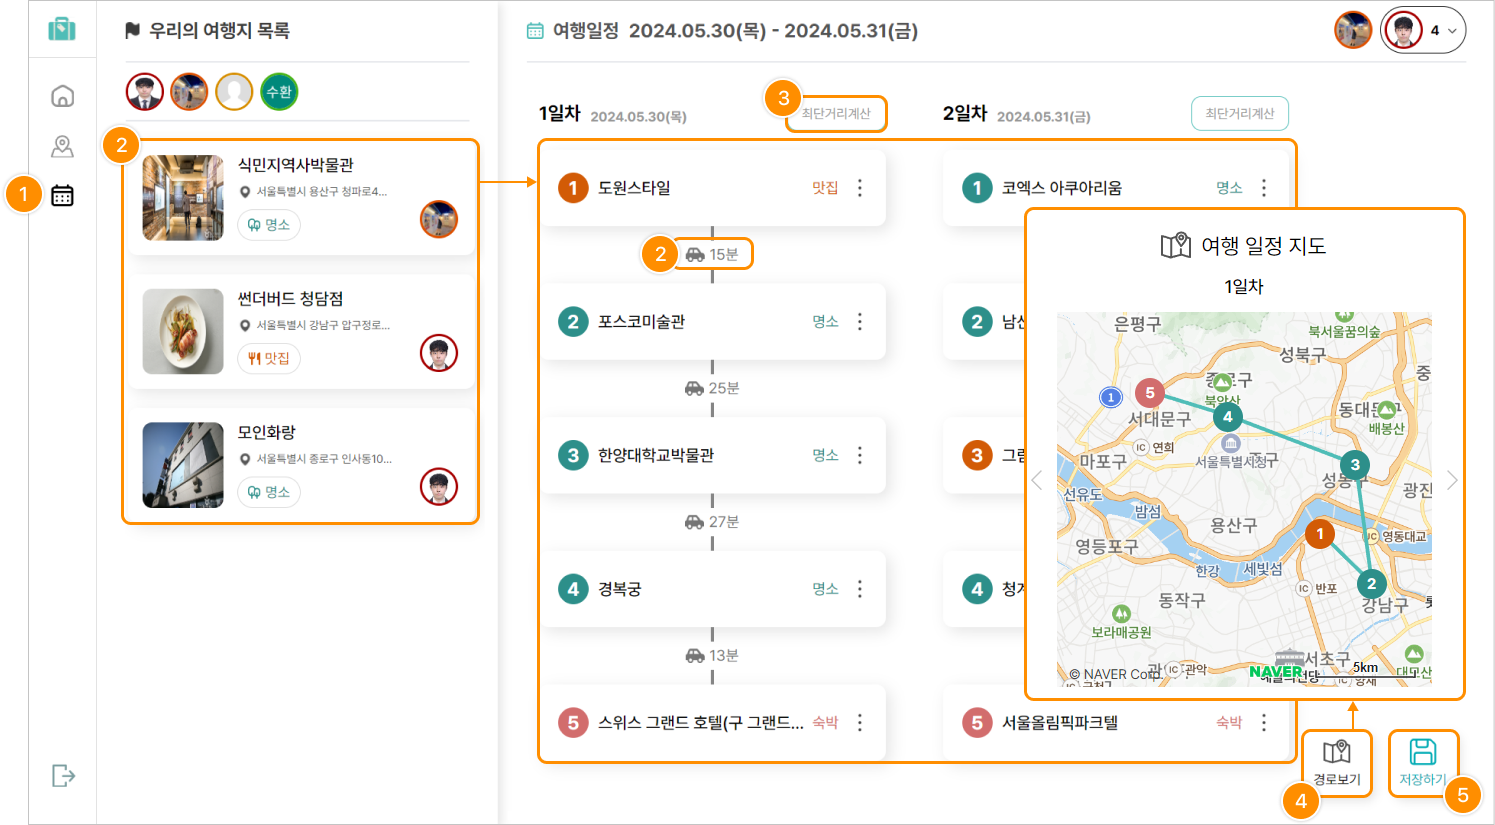
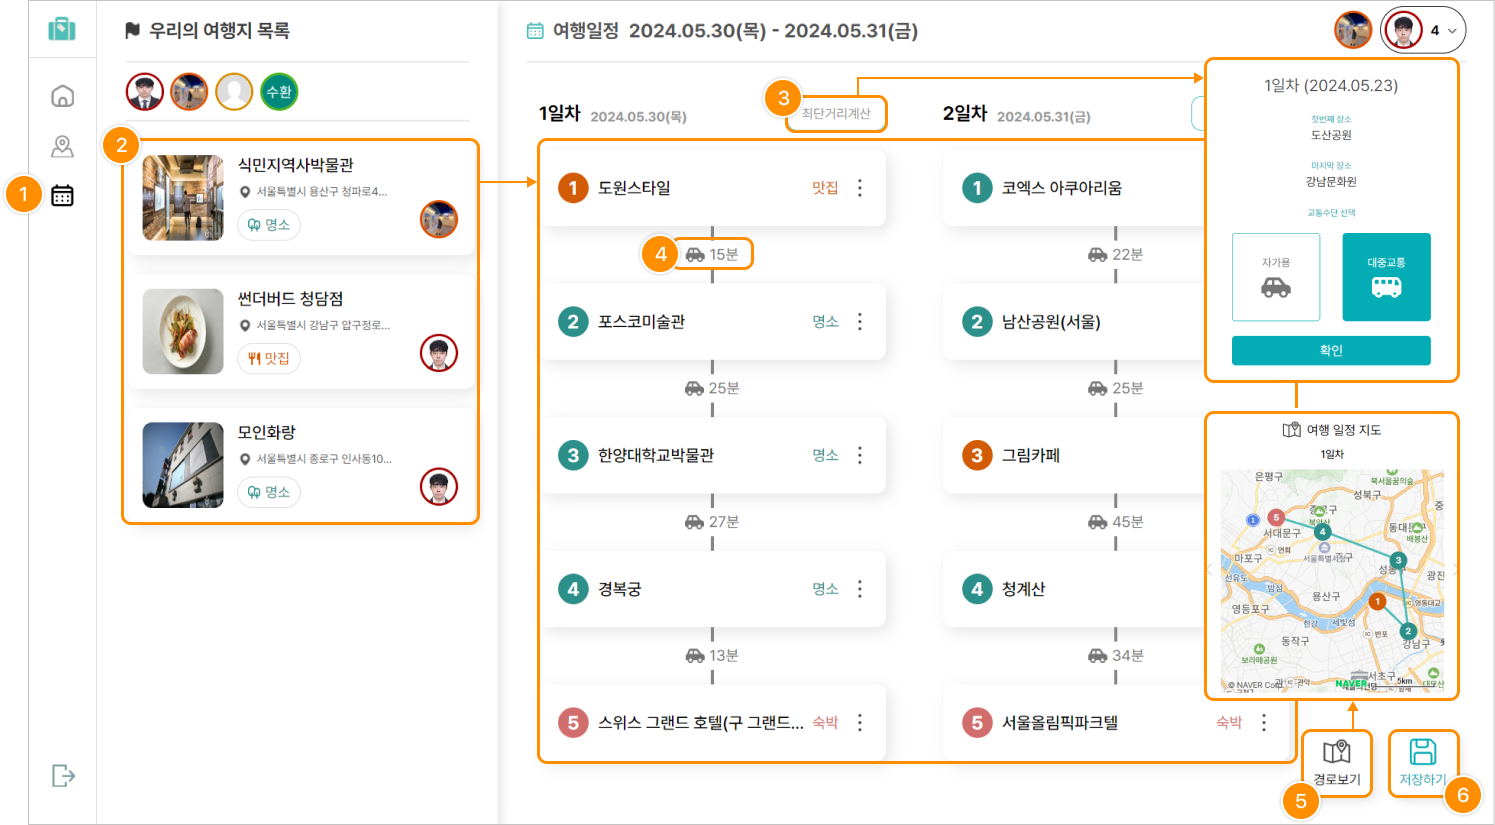
[FE] feat : diary qr코드 생성

Changed region(s): [[0.6769, 0.0606, 0.9846, 0.8485]]

diff --git a/FE/tripeer/components/nav/PlanDetailGuide.jsx b/FE/tripeer/components/nav/PlanDetailGuide.jsx
@@ -71,61 +71,63 @@ const PlanDetailGuide = () => {
         <div className={styles.guideTextBox}>
           <div className={styles.numBtn}>2</div>
           <div className={styles.guideText}>
-            카테고리 : 원하는 카테고리를 눌러 여행지를 확인하세요.
+            카테고리 : 원하는 카테고리를 눌러 여행지를 확인할 수 있습니다.
           </div>
         </div>
         <div className={styles.guideTextBox}>
           <div className={styles.numBtn}>3</div>
           <div className={styles.guideText}>
-            여행지 검색 : 여행하고 싶은 장소를 검색해 보세요.
+            여행지 검색 : 여행하고 싶은 장소를 검색할 수 있습니다..
           </div>
         </div>
         <div className={styles.guideTextBox}>
           <div className={styles.numBtn}>4</div>
           <div className={styles.guideText}>
-            여행지 추가 : 버튼을 눌러 우리의 여행지 목록에 추가해 보세요.
+            여행지 추가 : 버튼을 눌러 우리의 여행지 목록에 추가할 수 있습니다.
           </div>
         </div>
         <div className={styles.guideTextBox}>
           <div className={styles.numBtn}>5</div>
           <div className={styles.guideText}>
-            즐겨찾기 추가 : 버튼을 눌러 즐겨찾기 항목에 추가해 보세요.
+            즐겨찾기 추가 : 버튼을 눌러 즐겨찾기 항목에 추가할 수 있습니다.
           </div>
         </div>
         <div className={styles.guideTextBox}>
           <div className={styles.numBtn}>6</div>
           <div className={styles.guideText}>
-            사이드 창 : 버튼을 눌러 사이드 창을 열고 닫아 보세요.
+            사이드 창 : 버튼을 눌러 사이드 창을 열고 닫기가 가능합니다.
           </div>
         </div>
         <div className={styles.guideTextBox}>
           <div className={styles.numBtn}>7</div>
           <div className={styles.guideText}>
-            사용자 필터 : 사용자 프로필을 클릭하여 검색 결과를 필터링해보세요.
+            사용자 필터 : 사용자 프로필을 클릭하여 검색 결과를 필터링할 수
+            있습니다.
           </div>
         </div>
         <div className={styles.guideTextBox}>
           <div className={styles.numBtn}>8</div>
           <div className={styles.guideText}>
-            여행지 삭제 : 버튼을 눌러 우리의 여행지 목록에서 삭제해 보세요.
+            여행지 삭제 : 버튼을 눌러 우리의 여행지 목록에서 삭제할 수 있습니다.
           </div>
         </div>
         <div className={styles.guideTextBox}>
           <div className={styles.numBtn}>9</div>
           <div className={styles.guideText}>
-            여행지 마커 : 마커를 눌러 여행지 목록에 추가한 여행지를 살펴보세요.
+            여행지 마커 : 마커를 눌러 여행지 목록에 추가한 여행지를 확인할 수
+            있습니다.
           </div>
         </div>
         <div className={styles.guideTextBox}>
           <div className={styles.numBtn}>10</div>
           <div className={styles.guideText}>
-            온라인 유저 창 : 현재 온라인 사용자를 확인해 보세요.
+            온라인 유저 창 : 현재 온라인 사용자를 확인할 수 있습니다.
           </div>
         </div>
         <div className={styles.guideTextBox}>
           <div className={styles.numBtn}>11</div>
           <div className={styles.guideText}>
-            신규 장소 등록 : 검색결과에 없는 여행지를 새로 등록해 보세요.
+            신규 장소 등록 : 검색결과에 없는 여행지를 새로 등록할 수 있습니다.
           </div>
         </div>
       </div>
@@ -142,24 +144,31 @@ const PlanDetailGuide = () => {
           <div className={styles.numBtn}>2</div>
           <div className={styles.guideText}>
             여행지 목록 : 여행지 추가로 넣었던 목록들을 오른쪽 일정에 드롭 앤
-            다운으로 이동해 보세요.
+            다운으로 이동할 수 있습니다.
           </div>
         </div>
         <div className={styles.guideTextBox}>
           <div className={styles.numBtn}>3</div>
           <div className={styles.guideText}>
-            최단거리계산 : 버튼을 눌러 해당 일자의 일정을 최단 거리로 계산된
-            순서로 추천 받아 보세요.
+            최단 거리 계산 : 해당 일자의 첫번째와 마지막 장소를 기준으로,
+            교통수단에 맞게 최단 거리를 계산하여 일정 순서를 변경합니다.
           </div>
         </div>
         <div className={styles.guideTextBox}>
           <div className={styles.numBtn}>4</div>
           <div className={styles.guideText}>
-            경로보기 : 각 일차 별 여행할 장소들의 순서 지도를 보여줍니다.
+            교통 수단 변경 : 버튼을 눌러 자가용 또는 버스로 교통 수단을 변경할
+            수 있습니다.
           </div>
         </div>
         <div className={styles.guideTextBox}>
           <div className={styles.numBtn}>5</div>
+          <div className={styles.guideText}>
+            경로보기 : 각 일차 별 여행할 장소들의 순서 지도를 보여줍니다.
+          </div>
+        </div>
+        <div className={styles.guideTextBox}>
+          <div className={styles.numBtn}>6</div>
           <div className={styles.guideText}>
             저장하기 : 버튼을 눌러 여행을 저장하고, 여행 중 QR코드로 일정을
             확인할 수 있습니다.

diff --git a/FE/tripeer/app/diary/detail/[id]/page.module.css b/FE/tripeer/app/diary/detail/[id]/page.module.css
@@ -6,13 +6,47 @@
   align-items: center;
   padding: 50px 100px 70px;
 }
-.backBox {
+.topSection {
+  display: flex;
   width: 100%;
   height: 60px;
+  flex-direction: row;
+  justify-content: space-between;
+  align-items: center;
+  border-bottom: #4fbdb7 solid 2px;
+  margin-bottom: 20px;
+}
+.qrBox {
+  display: flex;
+  justify-content: center;
+  align-items: center;
+  font-size: 1.1rem;
+  font-weight: 500;
+  color: #545454;
+  margin-left: 10px;
+  cursor: pointer;
+  background: #4fbdb7;
+  color: #fff;
+  border-radius: 5px;
+  height: 40px;
+  width: 100px;
+}
+
+.qrImg {
+  background: url(../../../../components/diary/assets/qrCode.png);
+  background-position: center;
+  background-repeat: no-repeat;
+  background-size: contain;
+  height: 20px;
+  width: 20px;
+  margin-right: 5px;
+}
+.backBox {
+  width: auto;
+  height: 40px;
   display: flex;
   flex-direction: row;
   align-items: center;
-  margin-bottom: 30px;
 }
 .backIcon {
   background: url("../../../../components/diary/assets/backIcon.png");
@@ -35,7 +69,7 @@
   flex-direction: row;
   width: 100%;
   height: 400px;
-  margin-bottom: 100px;
+  margin-bottom: 50px;
 }
 .imageBox {
   height: 100%;
@@ -45,7 +79,7 @@
   background-position: center;
   background-size: cover;
   background-repeat: no-repeat;
-  border-radius: 10px;
+  border-radius: 5px;
   box-shadow: 0px 0px 10px rgba(0, 0, 0, 20%);
 }
 

diff --git a/FE/tripeer/app/diary/detail/[id]/page.jsx b/FE/tripeer/app/diary/detail/[id]/page.jsx
@@ -45,22 +45,28 @@ const DiaryDetail = () => {
 
   return (
     <main className={styles.container}>
-      <div className={styles.backBox}>
-        <div
-          className={styles.backIcon}
-          onClick={(e) => {
-            if (e.currentTarget === e.target) {
-              router.back();
-            }
-          }}></div>
-        <div
-          className={styles.backText}
-          onClick={(e) => {
-            if (e.currentTarget === e.target) {
-              router.back();
-            }
-          }}>
-          뒤로가기
+      <div className={styles.topSection}>
+        <div className={styles.backBox}>
+          <div
+            className={styles.backIcon}
+            onClick={(e) => {
+              if (e.currentTarget === e.target) {
+                router.back();
+              }
+            }}></div>
+          <div
+            className={styles.backText}
+            onClick={(e) => {
+              if (e.currentTarget === e.target) {
+                router.back();
+              }
+            }}>
+            뒤로가기
+          </div>
+        </div>
+        <div className={styles.qrBox}>
+          <div className={styles.qrImg}></div>
+          <div className={styles.qrText}>QR코드</div>
         </div>
       </div>
       {detailData ? (

diff --git a/FE/tripeer/app/mypage/page.jsx b/FE/tripeer/app/mypage/page.jsx
@@ -110,8 +110,7 @@ export default function MyPage() {
         style3: null,
         email: email,
       };
-      const res = await api.patch(`/user/myinfo`, request);
-      console.log(res);
+      await api.patch(`/user/myinfo`, request);
       store.setMyInfo({ ...store.myInfo, nickname: nickname });
       router.push("/");
     }

diff --git a/FE/tripeer/components/nav/planFullNav.module.css b/FE/tripeer/components/nav/planFullNav.module.css
@@ -109,4 +109,14 @@
   background-color: #fff;
   border-radius: 5px;
   padding: 20px;
+  animation: fadeIn 1s ease forwards;
+}
+
+@keyframes fadeIn {
+  0% {
+    opacity: 0%;
+  }
+  100% {
+    opacity: 100%;
+  }
 }

diff --git a/FE/tripeer/components/nav/planShortNav.module.css b/FE/tripeer/components/nav/planShortNav.module.css
@@ -108,4 +108,14 @@
   background-color: #fff;
   border-radius: 5px;
   padding: 20px;
+  animation: fadeIn 1s ease forwards;
+}
+
+@keyframes fadeIn {
+  0% {
+    opacity: 0%;
+  }
+  100% {
+    opacity: 100%;
+  }
 }
